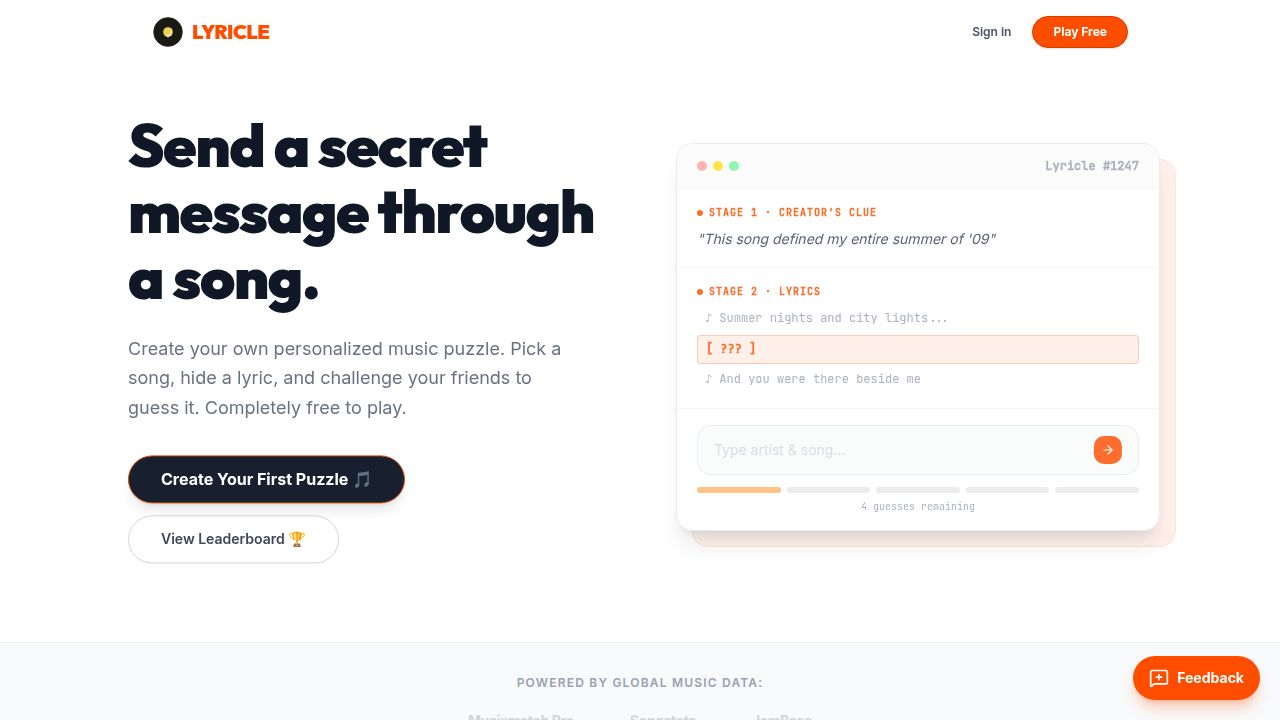
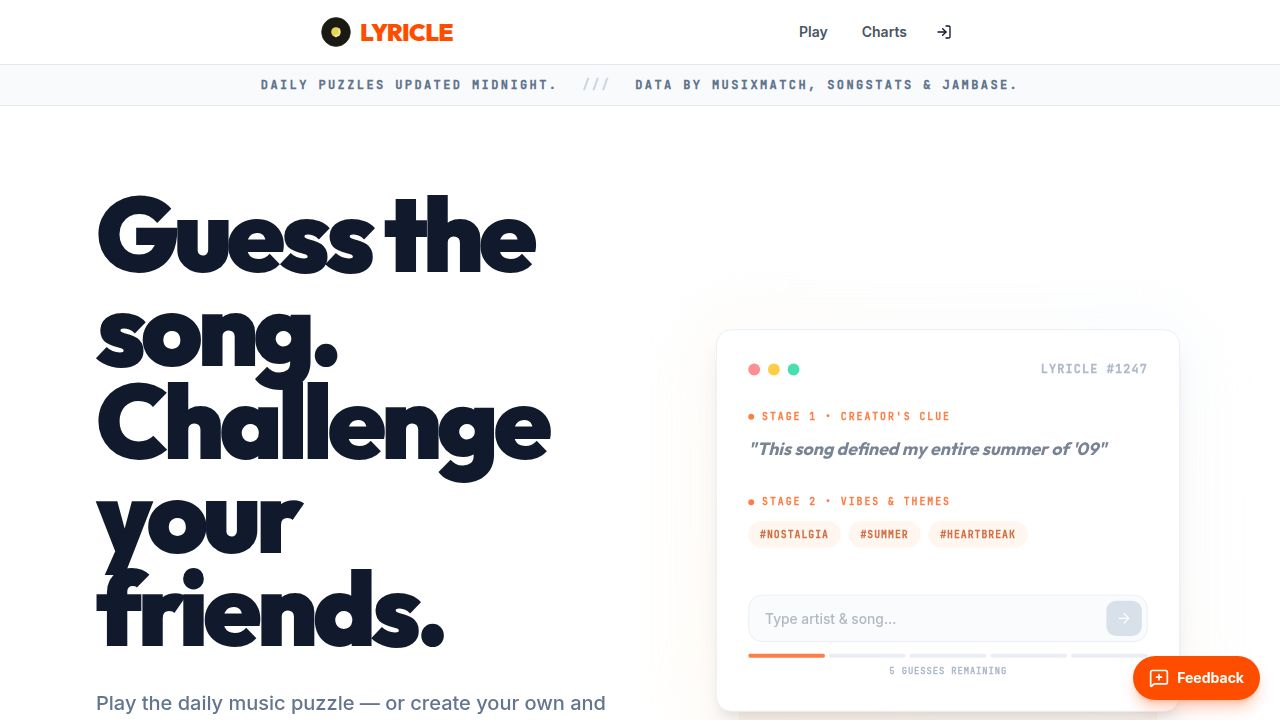
Fix missing album art in song search results (Task #75)
## Changes

### artifacts/lyricle/src/components/GuessInput.tsx
- Added `onError` handler to the album art `<img>` element. When a URL is
  broken or fails to load, the image is hidden and the Music icon fallback
  is revealed. Previously a broken URL left a blank/broken image element.
- Restructured the conditional rendering so Music icon is always present in
  the DOM but hidden when a valid art URL exists, enabling the onError swap.

### artifacts/api-server/src/routes/puzzle.ts
- Curated-song autocomplete fallback now enriches results with iTunes album
  art via parallel `searchItunesTracks` calls (one per matched song, all in
  parallel, 3 s timeout each, best-effort via Promise.allSettled).
- Previously the curated fallback always returned `albumArtUrl: null`.
  Now it attempts to fetch a 600px iTunes art URL for each result before
  responding, so curated-list songs show album covers in the search dropdown.

## Notes
- The iTunes path was already correct for non-curated searches
  (`artworkUrl600` is returned and mapped to `albumArtUrl`).
- No changes to itunes.ts were needed; the `artworkAt600` helper already
  converts 100x100 → 600x600 URLs.
- Spotify lookup was considered but not used; iTunes lookup is free, keyless,
  and provides equivalent art quality for all 30 curated songs.

Replit-Task-Id: c98e54d1-a359-4bcd-a0a5-33638c5d9320

diff --git a/artifacts/lyricle/src/components/GuessInput.tsx b/artifacts/lyricle/src/components/GuessInput.tsx
@@ -78,10 +78,25 @@ export default function GuessInput({ onGuess, disabled }: GuessInputProps) {
                     >
                       <div className="w-10 h-10 shrink-0 bg-muted rounded flex items-center justify-center overflow-hidden border border-border">
                         {track.albumArtUrl ? (
-                          <img src={track.albumArtUrl} alt={track.title} width={40} height={40} loading="lazy" className="w-full h-full object-cover" />
-                        ) : (
-                          <Music className="w-5 h-5 opacity-20" />
-                        )}
+                          <img
+                            src={track.albumArtUrl}
+                            alt={track.title}
+                            width={40}
+                            height={40}
+                            loading="lazy"
+                            className="w-full h-full object-cover"
+                            onError={(e) => {
+                              const target = e.currentTarget;
+                              target.style.display = "none";
+                              const fallback = target.nextElementSibling as HTMLElement | null;
+                              if (fallback) fallback.style.display = "flex";
+                            }}
+                          />
+                        ) : null}
+                        <Music
+                          className="w-5 h-5 opacity-20"
+                          style={{ display: track.albumArtUrl ? "none" : "flex" }}
+                        />
                       </div>
                       <div className="flex flex-col min-w-0">
                         <span className="font-medium truncate text-foreground">{track.title}</span>

diff --git a/artifacts/api-server/src/routes/puzzle.ts b/artifacts/api-server/src/routes/puzzle.ts
@@ -110,13 +110,25 @@ router.get("/puzzle/autocomplete", async (req, res): Promise<void> => {
   }
 
   // Last resort: curated song list (offline-safe)
+  // Enrich with iTunes art via parallel lookups (best-effort, 3 s timeout)
   const curated = searchCuratedSongs(query.data.q, 8);
+  const artResults = await Promise.allSettled(
+    curated.map((s) =>
+      Promise.race([
+        searchItunesTracks(`${s.artistName} ${s.trackName}`, 1).then(
+          (hits) => hits[0]?.artworkUrl600 ?? null,
+        ),
+        new Promise<null>((resolve) => setTimeout(() => resolve(null), 3000)),
+      ]),
+    ),
+  );
   res.json({
-    tracks: curated.map((s) => ({
+    tracks: curated.map((s, i) => ({
       displayName: `${s.artistName} — ${s.trackName}`,
       artist: s.artistName,
       title: s.trackName,
-      albumArtUrl: null,
+      albumArtUrl:
+        artResults[i].status === "fulfilled" ? artResults[i].value : null,
     })),
   });
 });